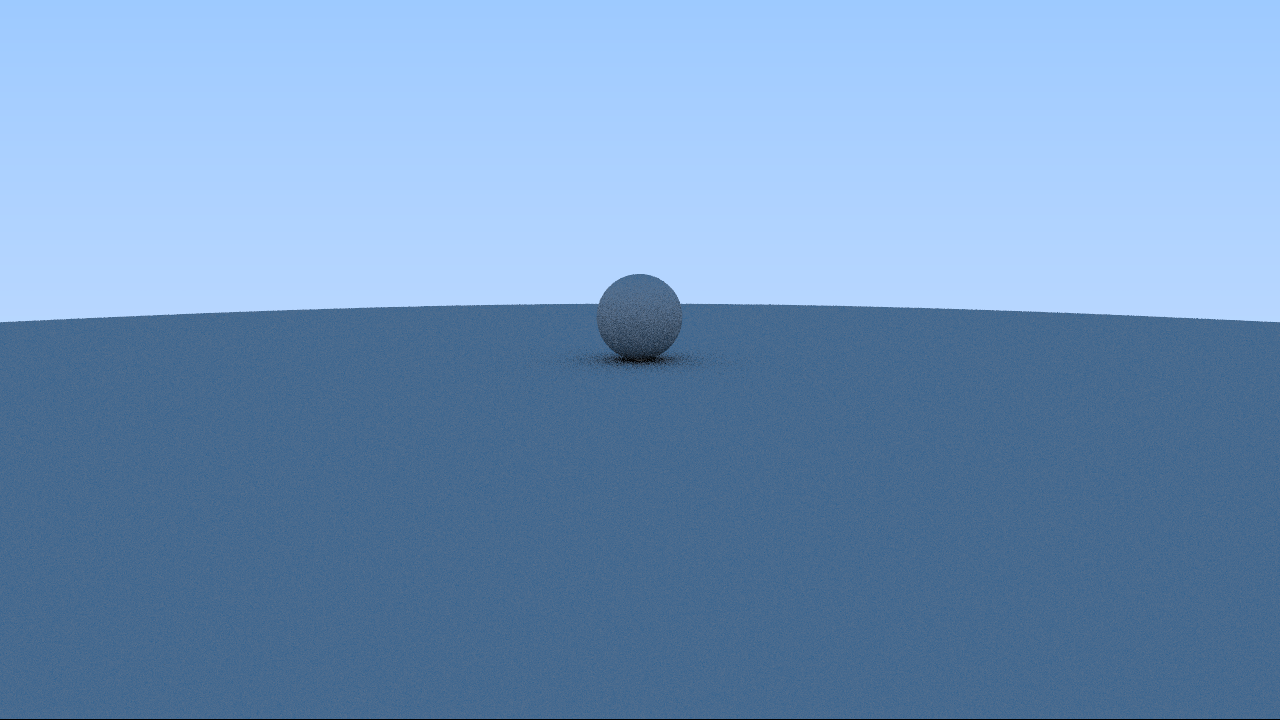
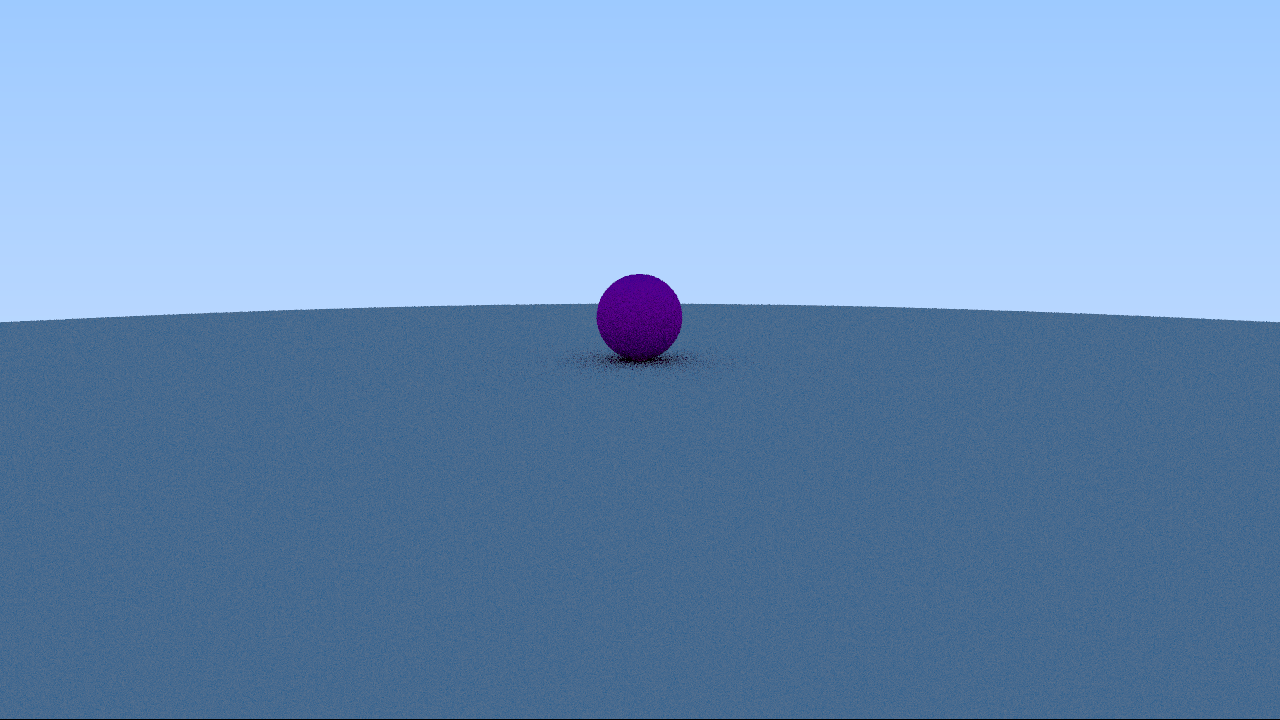
solid color texture

Changed region(s): [[0.4375, 0.3667, 0.5312, 0.5194]]

diff --git a/src/main.rs b/src/main.rs
@@ -18,6 +18,7 @@ type Direction = Vector3<f32>;
 type Barycentrics = Vector2<f32>;
 type FragCoord = Vector2<u32>;
 type Size2D = Vector2<u32>;
+type TextureCoordinate = Vector2<f32>;
 
 fn degrees_to_radians(degrees: f32) -> f32 {
     degrees * std::f32::consts::PI / 180.
@@ -55,6 +56,7 @@ pub struct Intersection {
     in_direction: Direction,
     t: f32,
     normal: Normal,
+    uv: TextureCoordinate,
     object_id: u32,
     instance_id: u32,
     primitive_id: u32,
@@ -68,6 +70,7 @@ impl Intersection {
         in_direction: &Direction,
         t: f32,
         normal: &Normal,
+        uv: &TextureCoordinate,
         object_id: u32,
         instance_id: u32,
         primitive_id: u32,
@@ -78,6 +81,7 @@ impl Intersection {
             position: *position,
             in_direction: *in_direction,
             t,
+            uv: *uv,
             normal: *normal,
             object_id,
             instance_id,
@@ -103,20 +107,40 @@ pub trait Material {
     fn pdf(&self, surface: &Intersection) -> f32;
 }
 
-pub struct DiffuseMaterial {
+pub trait Texture {
+    fn sample(&self, uv: &TextureCoordinate) -> Color;
+}
+
+pub struct SolidColorTexture {
     color: Color,
 }
 
-impl DiffuseMaterial {
+impl SolidColorTexture {
     fn new(color: &Color) -> Self {
         Self { color: *color }
+    }
+}
+
+impl Texture for SolidColorTexture {
+    fn sample(&self, _: &TextureCoordinate) -> Color {
+        self.color
+    }
+}
+
+pub struct DiffuseMaterial {
+    albedo: Box<dyn Texture>,
+}
+
+impl DiffuseMaterial {
+    fn new(albedo: Box<dyn Texture>) -> Self {
+        Self { albedo }
     }
 }
 
 impl Material for DiffuseMaterial {
     fn brdf(&self, surface: &Intersection) -> Option<Bounce> {
         Some(Bounce {
-            color: self.color / std::f32::consts::PI,
+            color: self.albedo.sample(&surface.uv) / std::f32::consts::PI,
             out_dir: surface.normal + rand_sphere(),
         })
     }
@@ -177,10 +201,11 @@ impl Hittable for Sphere {
             &ray.dir,
             root,
             &n,
+            &TextureCoordinate::new(0., 0.),
             0,
             0,
             0,
-            0,
+            self.material_id,
             &Barycentrics::new(0., 0.),
         ));
     }
@@ -442,21 +467,27 @@ fn main() {
     let mut ctx = MyContext {
         output_image: image::ImageBuffer::new(width, height),
         accumulation_buffer: vec![Color::new(0., 0., 0.); (width * height) as usize],
-        spp: 8,
+        spp: 4,
         max_depth: 8,
         materials: Vec::new(),
     };
 
-    ctx.materials.push(Box::new(DiffuseMaterial {
-        color: Color::new(1., 1., 1.),
-    }));
+    ctx.materials.push(Box::new(DiffuseMaterial::new(Box::new(
+        SolidColorTexture::new(&Color::new(1., 1., 1.)),
+    ))));
 
-    scene.add_hittable(Box::new(Sphere::new(1., &Position::new(0., 1., 0.), 0)));
+    ctx.materials.push(Box::new(DiffuseMaterial::new(Box::new(
+        SolidColorTexture::new(&Color::new(1., 0., 1.)),
+    ))));
+
+    // Floor
     scene.add_hittable(Box::new(Sphere::new(
         1000.,
         &Position::new(0., -1000., 0.),
         0,
     )));
+
+    scene.add_hittable(Box::new(Sphere::new(1., &Position::new(0., 1., 0.), 1)));
     let tracer = CPUTracer::new(Box::new(RayGenerator {
         camera: camera,
         ctx: std::marker::PhantomData::<MyContext>::default(),
